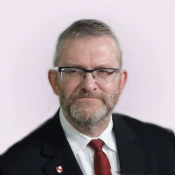
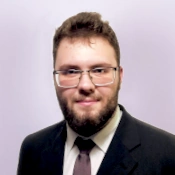
Update Mikolaj's info

diff --git a/src/features/main/components/Authors.tsx b/src/features/main/components/Authors.tsx
@@ -33,7 +33,8 @@ export const Authors = () => {
             imgUrl: '/images/mikolaj.webp',
             name: 'Mikołaj Szymanowski',
             description: t('Back-end software engineer UI designer'),
-            linkedin: 'https://www.linkedin.com/in/mikolaj-szymanowski',
+            linkedin:
+                'https://www.linkedin.com/in/mikołaj-szymanowski-6821a0397',
             github: 'https://github.com/mikolajszyman',
         },
     ];
